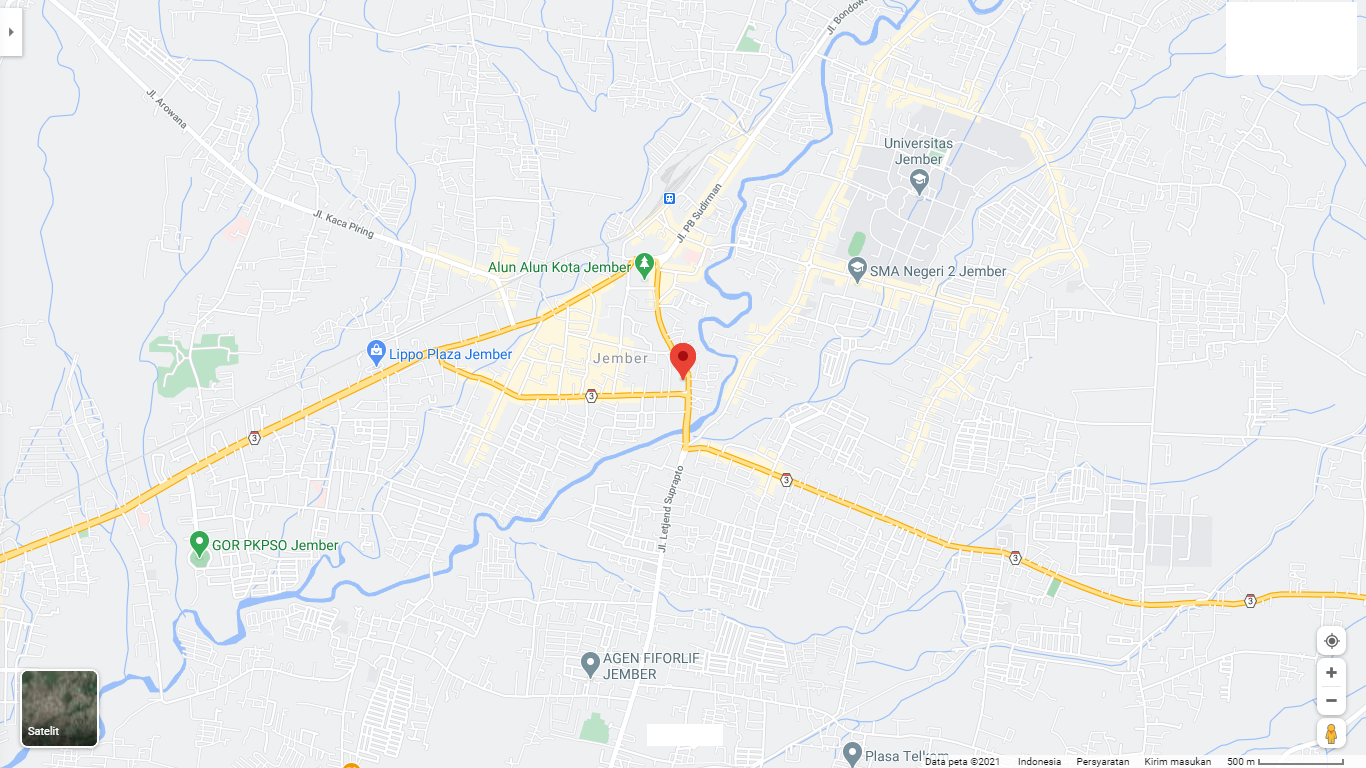
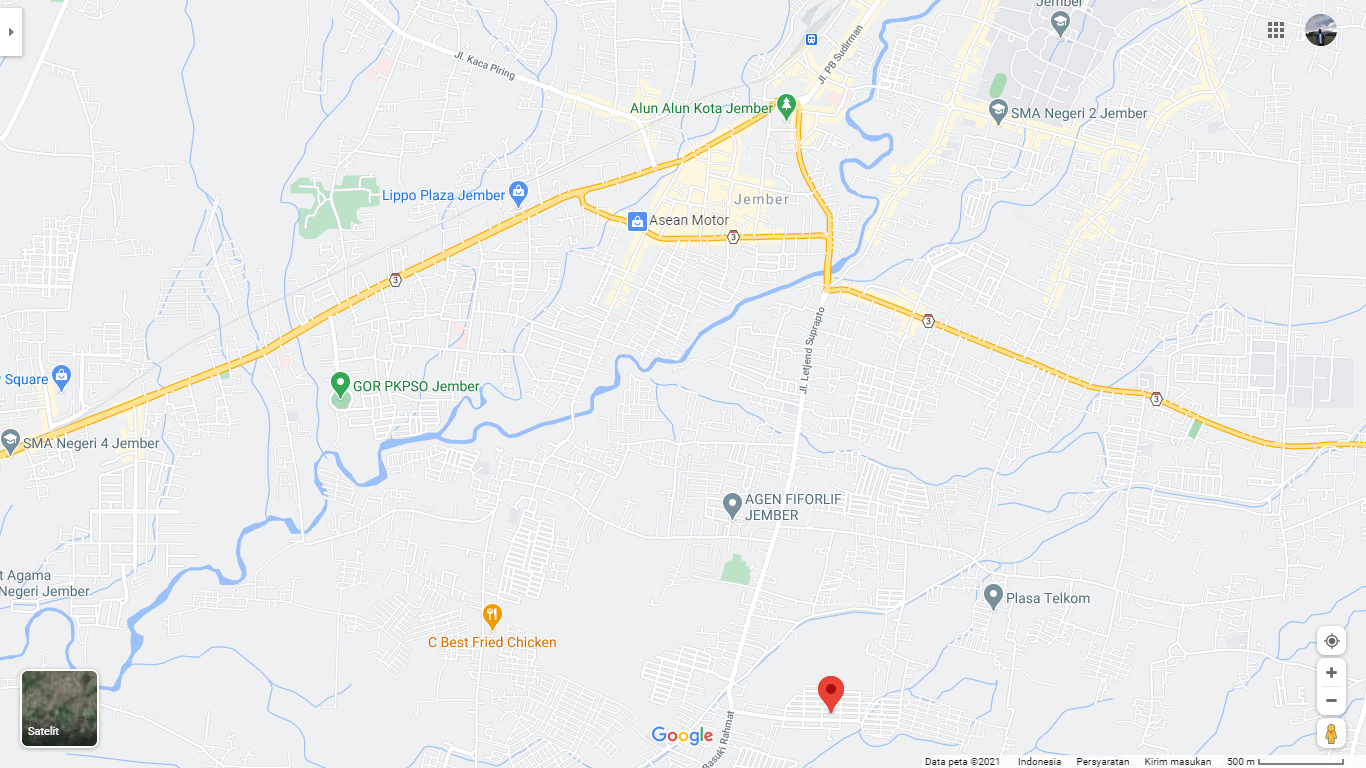
Update map

diff --git a/Renjana/INFO.HTML b/Renjana/INFO.HTML
@@ -38,7 +38,8 @@
     </div>
     <h3>Lokasi Kami</h3>
     <div class="lokasi">
-        <img class="jember" src="jember.png"style="width:80%;height:auto;">
+        <a href="https://www.google.com/maps/place/6P3MQPX3%2BMV/@-8.1832122,113.6966757,15z/data=!4m5!3m4!1s0x0:0x0!8m2!3d-8.2008125!4d113.7046875?hl=id">
+            <img class="jember" src="jember.png"style="width:80%;height:auto;"></a>
     </div>
     <footer>
         <div class="teks">
